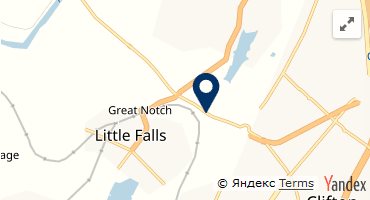
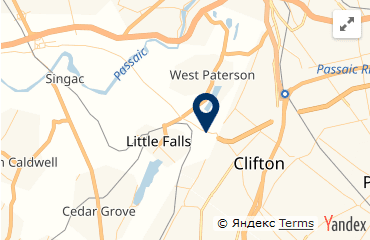
q

diff --git a/scss/main.scss b/scss/main.scss
@@ -518,10 +518,27 @@ header{
     .block-contact-with__row {
         padding: 92px 0;
     }
+    .block-contact-with__item {
+        h3 {
+            font-size: 1rem;
+            font-family: "Montserrat";
+            color: $dark-blue;
+            font-weight: bold;
+            text-transform: uppercase;
+            line-height: 0.864;
+            text-align: left;
+        } 
+        li p {
+                font-size: 16px;
+                font-family: "Segoe UI Emoji";
+                color: $dark-blue;
+                line-height: 1.313;        
+        }        
+    }
 }
 #map_little-falls, #map_Passaic, #map_Paterson {
     width: 100%; 
-    height: 200px;
+    height: 240px;
     padding: 0; 
     margin: 0;
     cursor: pointer;
@@ -538,7 +555,7 @@ header{
 }
 .ymap-container-1, .ymap-container-2, .ymap-container-3 {
     position: relative;
-    margin: 3em 0 2em 0;
+    margin-bottom: 3rem;
     overflow: hidden;
     cursor: pointer;
     background-position: center center;

diff --git a/scss/main.css b/scss/main.css
@@ -469,10 +469,23 @@ header {
     line-height: 1.2; }
   .block-contact-with .block-contact-with__row {
     padding: 92px 0; }
+  .block-contact-with .block-contact-with__item h3 {
+    font-size: 1rem;
+    font-family: "Montserrat";
+    color: #003366;
+    font-weight: bold;
+    text-transform: uppercase;
+    line-height: 0.864;
+    text-align: left; }
+  .block-contact-with .block-contact-with__item li p {
+    font-size: 16px;
+    font-family: "Segoe UI Emoji";
+    color: #003366;
+    line-height: 1.313; }
 
 #map_little-falls, #map_Passaic, #map_Paterson {
   width: 100%;
-  height: 200px;
+  height: 240px;
   padding: 0;
   margin: 0;
   cursor: pointer;
@@ -489,7 +502,7 @@ header {
 
 .ymap-container-1, .ymap-container-2, .ymap-container-3 {
   position: relative;
-  margin: 3em 0 2em 0;
+  margin-bottom: 3rem;
   overflow: hidden;
   cursor: pointer;
   background-position: center center;

diff --git a/js/common.js b/js/common.js
@@ -23,7 +23,7 @@ var myMapTemp1, myPlacemarkTemp1;
 function init1 () {
   var myMapTemp1 = new ymaps.Map("map_little-falls", {
     center: [40.875339, -74.199921], 
-    zoom: 13,
+    zoom: 12,
     controls: ['fullscreenControl']
     },
     {
@@ -134,7 +134,7 @@ var myMapTemp2, myPlacemarkTemp2;
 function init2 () {
   var myMapTemp2 = new ymaps.Map("map_Passaic", {
     center: [40.868502, -74.125134], 
-    zoom: 10,
+    zoom: 11,
     controls: ['fullscreenControl']
     },
     {
